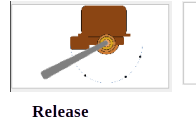
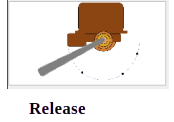
Minor fixes.

diff --git a/main.py b/main.py
@@ -14,6 +14,7 @@ import math
 import os
 import platform
 import pprint   #pylint: disable=W0611
+import signal
 import subprocess
 import sys
 import threading
@@ -366,14 +367,14 @@ def CenterOnMainWindow(Widget):
     WidgetGeometry.moveCenter(Geometry.center())
     Widget.move(WidgetGeometry.topLeft())
 
-def ShowModalTutorial(File):
+def ShowModalTutorial(File, Window=None):
     """
     Display a modeal tutorial popup, loaded directly from
     File via uic.loadUi() (no compiled/generated .py needed).
 
     The popup's windowModality is ApplicationModal (set in the .ui file
     itself), so clicks outside the popup are ignored -- it stays up until
-    the user clicks the "Click Here" button.
+    the user clicks the "Click Here" button (or Cancel, if present).
 
     QMainWindow has no exec(), so this blocks the caller on a local
     QEventLoop instead, the same technique used by ShowErrorMessage()
@@ -381,8 +382,17 @@ def ShowModalTutorial(File):
     TutorialWindow.close() by the .ui file itself; it's also connected to
     loop.quit() here so our wait ends the moment the button is clicked.
 
+    If the .ui file has a "cancelButton" and a Window (the Mode object
+    that's asking for this tutorial step -- NOT the stale module-global
+    Mode, which during __init__ still points at whatever mode was active
+    *before* this one) is supplied, Cancel is wired to close this window,
+    unblock the wait, and notify Window.TutorialCancel() so it can update
+    its own state. destroyed->loop.quit() is a safety net so we can never
+    get stuck forever if the window goes away some other way.
+
     :param File: The file containing the tutorial
-    :param MainWindow: Window to parent the popup to
+    :param Window: The Mode object requesting this tutorial (for Cancel);
+                    omit for tutorials that don't need Cancel handling.
     """
     print(f"### ShowModalTutorial({File})")
     state.Log(f"ShowModalTutorial({File})")
@@ -395,17 +405,27 @@ def ShowModalTutorial(File):
 
     loop = QtCore.QEventLoop()
     TutorialWindow.ClickHere.clicked.connect(loop.quit)
+    TutorialWindow.destroyed.connect(loop.quit)
+
+    if (Window is not None) and hasattr(TutorialWindow, "cancelButton"):
+        TutorialWindow.cancelButton.clicked.connect(TutorialWindow.close)
+        TutorialWindow.cancelButton.clicked.connect(loop.quit)
+        TutorialWindow.cancelButton.clicked.connect(Window.TutorialCancel)
 
     TutorialWindow.show()
     TutorialWindow.raise_()
     TutorialWindow.activateWindow()
     loop.exec()
 
-def PauseTutorial(File):
+    return TutorialWindow
+
+def PauseTutorial(File, Window=None):
     """
     Display a tutorial that pauses the video to display it.
 
     :param File: File contining the ui
+    :param Window: The Mode object requesting this tutorial (for Cancel);
+                    omit for tutorials that don't need Cancel handling.
 
     Uses the module-global MainWindow (set in Window.__init__) rather than
     taking it as a parameter.
@@ -413,7 +433,7 @@ def PauseTutorial(File):
     global MainWindow
 
     MainWindow.Video.Pause()
-    ShowModalTutorial(File)
+    ShowModalTutorial(File, Window)
     MainWindow.Video.Resume()
 
 
@@ -502,9 +522,10 @@ class EasyMode:
                 case _:
                     print("ERROR: Impossible pointer type ", PointerType)
                     sys.exit(8)
-            ShowModalTutorial(File)
-            self.Tutorial = ShowTutorial('easy.2.ui', self)
-            self.TutorialStep = self.TutorialEnum.EASY_2
+            ShowModalTutorial(File, self)
+            if self.TutorialStep != self.TutorialEnum.EASY_NONE:
+                self.Tutorial = ShowTutorial('easy.2.ui', self)
+                self.TutorialStep = self.TutorialEnum.EASY_2
         else:
             self.TutorialStep = self.TutorialEnum.EASY_NONE
 
@@ -533,8 +554,9 @@ class EasyMode:
         Closes out the tutorial
         """
         self.TutorialStep = self.TutorialEnum.EASY_NONE
-        self.Tutorial.close()
-        del self.Tutorial
+        if hasattr(getattr(self, "Tutorial", None), "close"):
+            self.Tutorial.close()
+        self.Tutorial = None
 
     def DeadmanClicked(self, Checked):
         """
@@ -599,10 +621,6 @@ class EasyMode:
         """
         self.MaxSpeed = 0
         state.State.Reset()
-        if (self.TutorialStep != self.TutorialEnum.EASY_NONE):
-            if (self.Tutorial is not None):
-                self.Tutorial.close()
-                del self.Tutorial
 
     def ModeTick(self):                   # EasyMode
         """
@@ -611,7 +629,7 @@ class EasyMode:
         global MainWindow
 
         if (MainWindow.Video.GetPosition() > STORE_HELP) and (self.TutorialStep == self.TutorialEnum.EASY_STORE):
-            PauseTutorial('easy.store.ui')
+            PauseTutorial('easy.store.ui', self)
             self.TutorialStep = self.TutorialEnum.EASY_NONE
 
         if (not state.State.Deadman) and ((state.State.Speed != 0) or (state.State.RunLevel != 0)):
@@ -672,9 +690,8 @@ class StartStopMode:
         START_4 = 4
         START_5 = 5
         START_6 = 6
+        START_6B = 6
         START_7 = 7
-        START_8 = 8
-        START_9 = 9
 
     def __init__(self, Tutorial=False):     # Start/stop mode
         """
@@ -682,16 +699,19 @@ class StartStopMode:
         """
         self.Events = GLOBAL_EVENTS
         self.MaxSpeed = 0
+        self.Tutorial = None
 
         if (Tutorial):
             self.TutorialStep = self.TutorialEnum.START_1
-            self.Tutorial = ShowModalTutorial('start.1.ui')
+            ShowModalTutorial('start.1.ui', self)
 
-            self.TutorialStep = self.TutorialEnum.START_2
-            self.Tutorial = ShowModalTutorial('start.2.ui')
+            if self.TutorialStep != self.TutorialEnum.START_NONE:
+                self.TutorialStep = self.TutorialEnum.START_2
+                ShowModalTutorial('start.2.ui', self)
 
-            self.TutorialStep = self.TutorialEnum.START_2b
-            self.Tutorial = ShowTutorial('start.2b.ui', self)
+            if self.TutorialStep != self.TutorialEnum.START_NONE:
+                self.TutorialStep = self.TutorialEnum.START_2b
+                self.Tutorial = ShowTutorial('start.2b.ui', self)
         else:
             self.TutorialStep = self.TutorialEnum.START_NONE
 
@@ -743,7 +763,8 @@ class StartStopMode:
         Closes out the tutorial
         """
         self.TutorialStep = self.TutorialEnum.START_NONE
-        self.Tutorial.close()
+        if hasattr(getattr(self, "Tutorial", None), "close"):
+            self.Tutorial.close()
         self.Tutorial = None
 
     def DeadmanClicked(self, Checked):
@@ -762,11 +783,13 @@ class StartStopMode:
 
         :returns: True if we should contine, false if should reset
         """
-        if (self.TutorialStep == self.TutorialEnum.START_6) and (RunLevel == 0):
+        if (self.TutorialStep == self.TutorialEnum.START_6) and (RunLevel > 0):
             self.Tutorial.close()
             self.Tutorial = None
+            self.TutorialStep = self.TutorialEnum.START_6B
 
-            ShowModalTutorial("start.7.ui")
+        if (self.TutorialStep == self.TutorialEnum.START_6B) and (RunLevel <= 0):
+            ShowModalTutorial("start.7.ui", self)
             self.TutorialStep = self.TutorialEnum.START_NONE
         
         # First we check to see if the RunLevel has changed
@@ -813,11 +836,6 @@ class StartStopMode:
         state.State.Reset()
         self.MaxSpeed = 0
         self.LastRunLevel = 0
-        if (self.TutorialStep != self.TutorialEnum.START_NONE):
-            if (self.Tutorial is not None):
-                self.Tutorial.close()
-                del self.Tutorial
-        self.TutorialStep = self.TutorialEnum.START_NONE
 
     def ModeTick(self):           # StartStopMode
         """
@@ -1837,12 +1855,30 @@ class Window(QMainWindow, sim_ui4.Ui_MainWindow):
             for AFrame in FrameList:
                 print("DEBUG %s:%d(%s)" % (pathlib.Path(AFrame.filename).name, AFrame.lineno, AFrame.function))
 
-        state.Log(f"MainReset: Mode {Mode}")
+        state.Log(f"MainReset: Mode {Mode.Name}")
         self.Video.Reset()
         self.ClickClackPos = CLICK_CLACK_DISTANCE
 
         self.Timer.stop()
         self.SelectWindow.exec()
+
+        self.WarningList = []
+        self.WarningLabel.setText("")
+        for Event in Mode.Events:
+            Event.Done = False
+
+        self.DeadmanButton.setChecked(False)
+        self.DeadmanGraphic.setChecked(False)
+
+        self.SetRun(0)
+        self.SetDirection(state.DirectionEnum.NEUTRAL)
+
+        self.BrakeGraphics.MoveBrakeLever(state.BrakeEnum.APPLY)
+        self.BrakeUi.SetBrake(state.BrakeEnum.APPLY)
+        self.BrakeUi.BrakeReset()
+
+        self.DingTime = []
+        self.DingPosition = []
         self.Timer.start()
 
         match (ModeId):
@@ -1867,23 +1903,6 @@ class Window(QMainWindow, sim_ui4.Ui_MainWindow):
         self.Video.SetRate(state.State.Speed)
 
         Mode.ModeReset()
-        self.WarningList = []
-        self.WarningLabel.setText("")
-        for Event in Mode.Events:
-            Event.Done = False
-
-        self.DeadmanButton.setChecked(False)
-        self.DeadmanGraphic.setChecked(False)
-
-        self.SetRun(0)
-        self.SetDirection(state.DirectionEnum.NEUTRAL)
-
-        self.BrakeGraphics.MoveBrakeLever(state.BrakeEnum.APPLY)
-        self.BrakeUi.SetBrake(state.BrakeEnum.APPLY)
-        self.BrakeUi.BrakeReset()
-
-        self.DingTime = []
-        self.DingPosition = []
 
     def BrakeApplyClicked(self): 
         """
@@ -2252,6 +2271,41 @@ Where
     """)
     sys.exit(8)
 
+def HandleSigInt(signum, frame):
+    """
+    Let Ctrl-C in the terminal shut the program down.
+
+    Qt's C++ event loop doesn't reliably let Python's default SIGINT
+    handling (raising KeyboardInterrupt) interrupt app.exec(); even when
+    it does fire on a timer tick, PyQt6 just reports the exception via
+    sys.excepthook and keeps running, so Ctrl-C would otherwise appear to
+    do nothing. Route it through MainWindow.close() for its normal
+    cleanup (timer stop, mpv teardown) -- then force the process to
+    actually end, rather than trusting QApplication.quit() alone.
+
+    QApplication.quit() only asks the *currently running* Qt event loop
+    to stop. If Ctrl-C lands while a nested modal dialog is running --
+    e.g. MainReset()'s self.SelectWindow.exec() -- quit() ends that
+    dialog's loop instead of the outer app.exec(). MainReset() then just
+    carries on as if a mode had been picked (reconstructing a fresh Mode
+    from the stale ModeId), while the timer and video are already stopped
+    from closeEvent(): the app is left half-alive instead of exiting.
+    os._exit() sidesteps this entirely by ending the process outright
+    once cleanup has had its chance to run.
+
+    :param signum: Signal number (unused, required by signal.signal())
+    :param frame: Current stack frame (unused, required by signal.signal())
+    """
+    global MainWindow
+    print("### Caught SIGINT (Ctrl-C), shutting down")
+    state.Log("Caught SIGINT (Ctrl-C), shutting down")
+    if MainWindow is not None:
+        try:
+            MainWindow.close()
+        except Exception:
+            pass
+    os._exit(0)
+
 if __name__ == "__main__":
     global MainWindow, Mode
     MainWindow = None
@@ -2312,6 +2366,11 @@ if __name__ == "__main__":
         QtCore.Qt.ApplicationAttribute.AA_ShareOpenGLContexts, True
     )
     app = QtWidgets.QApplication(sys.argv)  #pylint: disable=I1101
+
+    # Must be installed after QApplication() exists (it can reset signal
+    # handling during construction on some platforms), and before app.exec()
+    # so Ctrl-C in the terminal actually shuts the program down cleanly.
+    signal.signal(signal.SIGINT, HandleSigInt)
 
     # PyInstaller's bootloader splash screen is NOT supported on macOS: it runs
     # in a secondary thread, and macOS forbids UI work off the main thread, so
